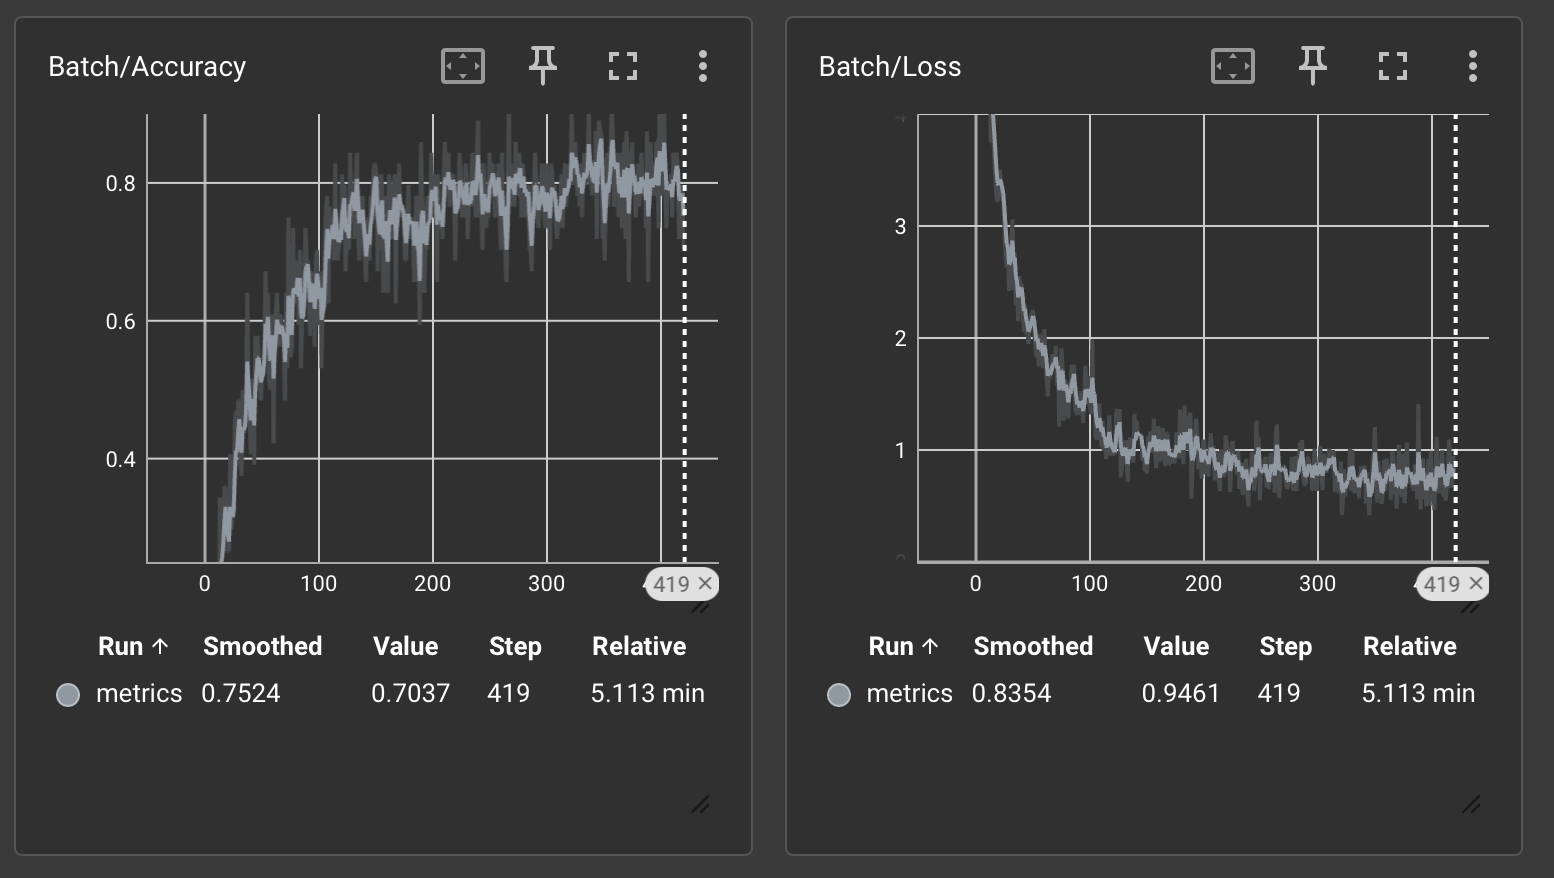
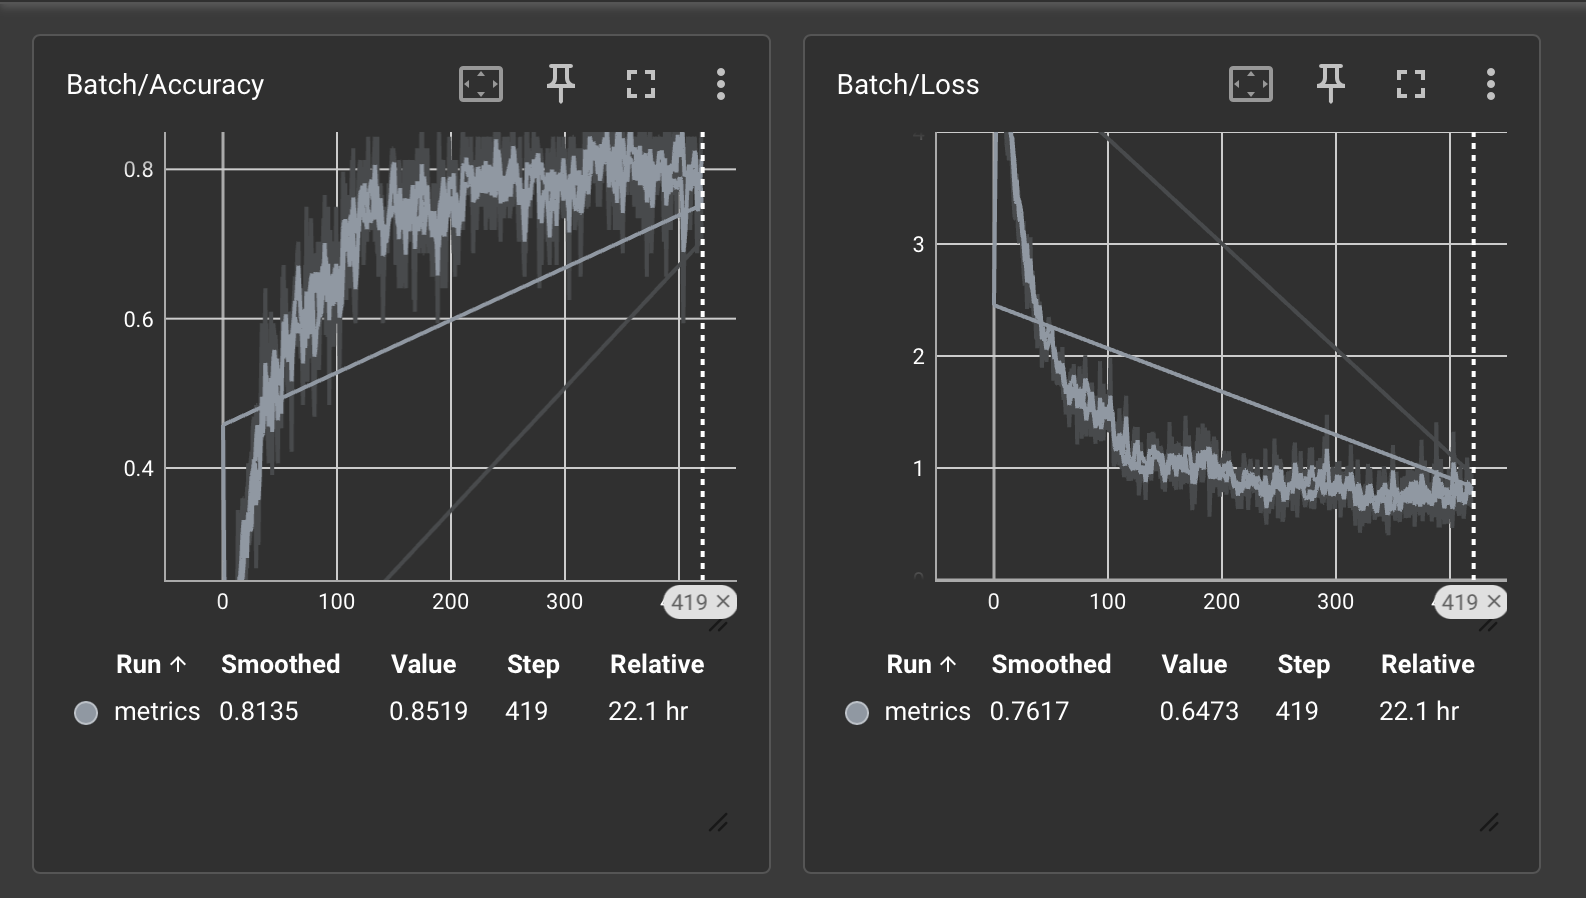
Add assets

diff --git a/train_model.py b/train_model.py
@@ -218,7 +218,7 @@ def main(args):
         logger.info(f'Test Avg Loss: {test_avg_loss:.8f}\tTest Accuracy: {test_accuracy:.4f}')
 
         # Save the trained model
-        torch.save(model, os.path.join(args.model_dir, "model.pth"))
+        torch.save(model.state_dict(), os.path.join(args.model_dir, "model.pth"))
 
         tensorboard_writer.flush()
         tensorboard_writer.close()
